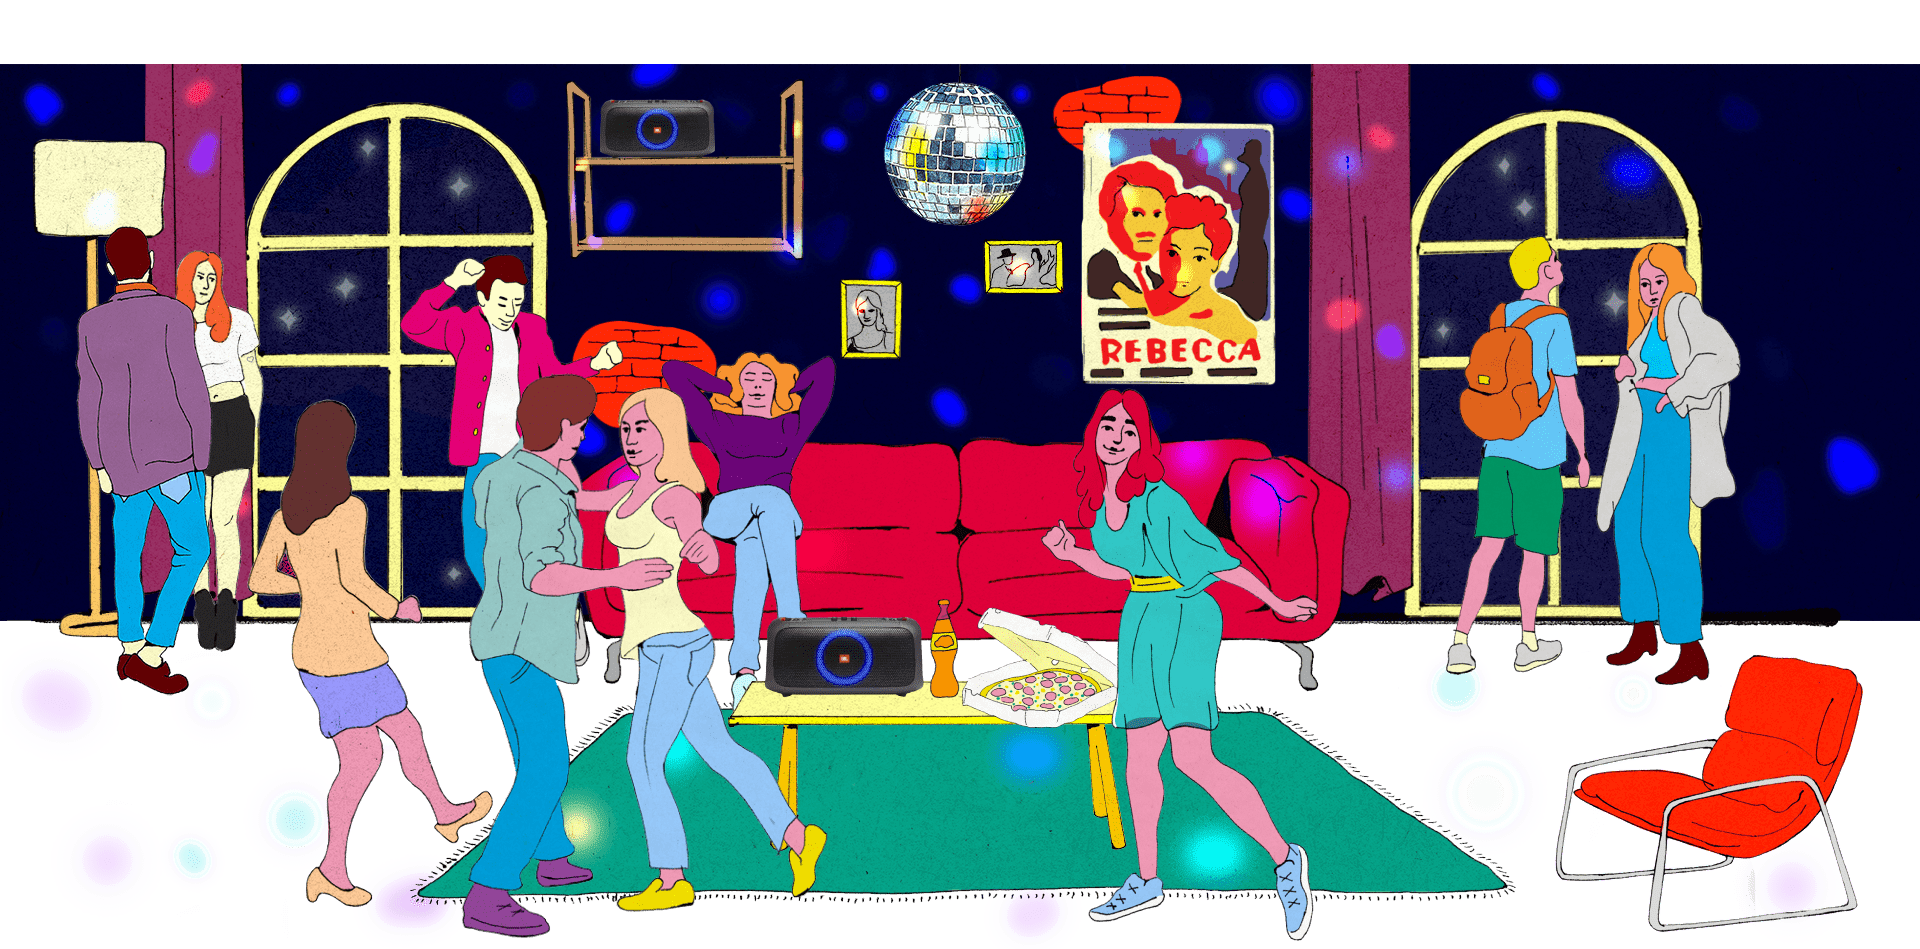
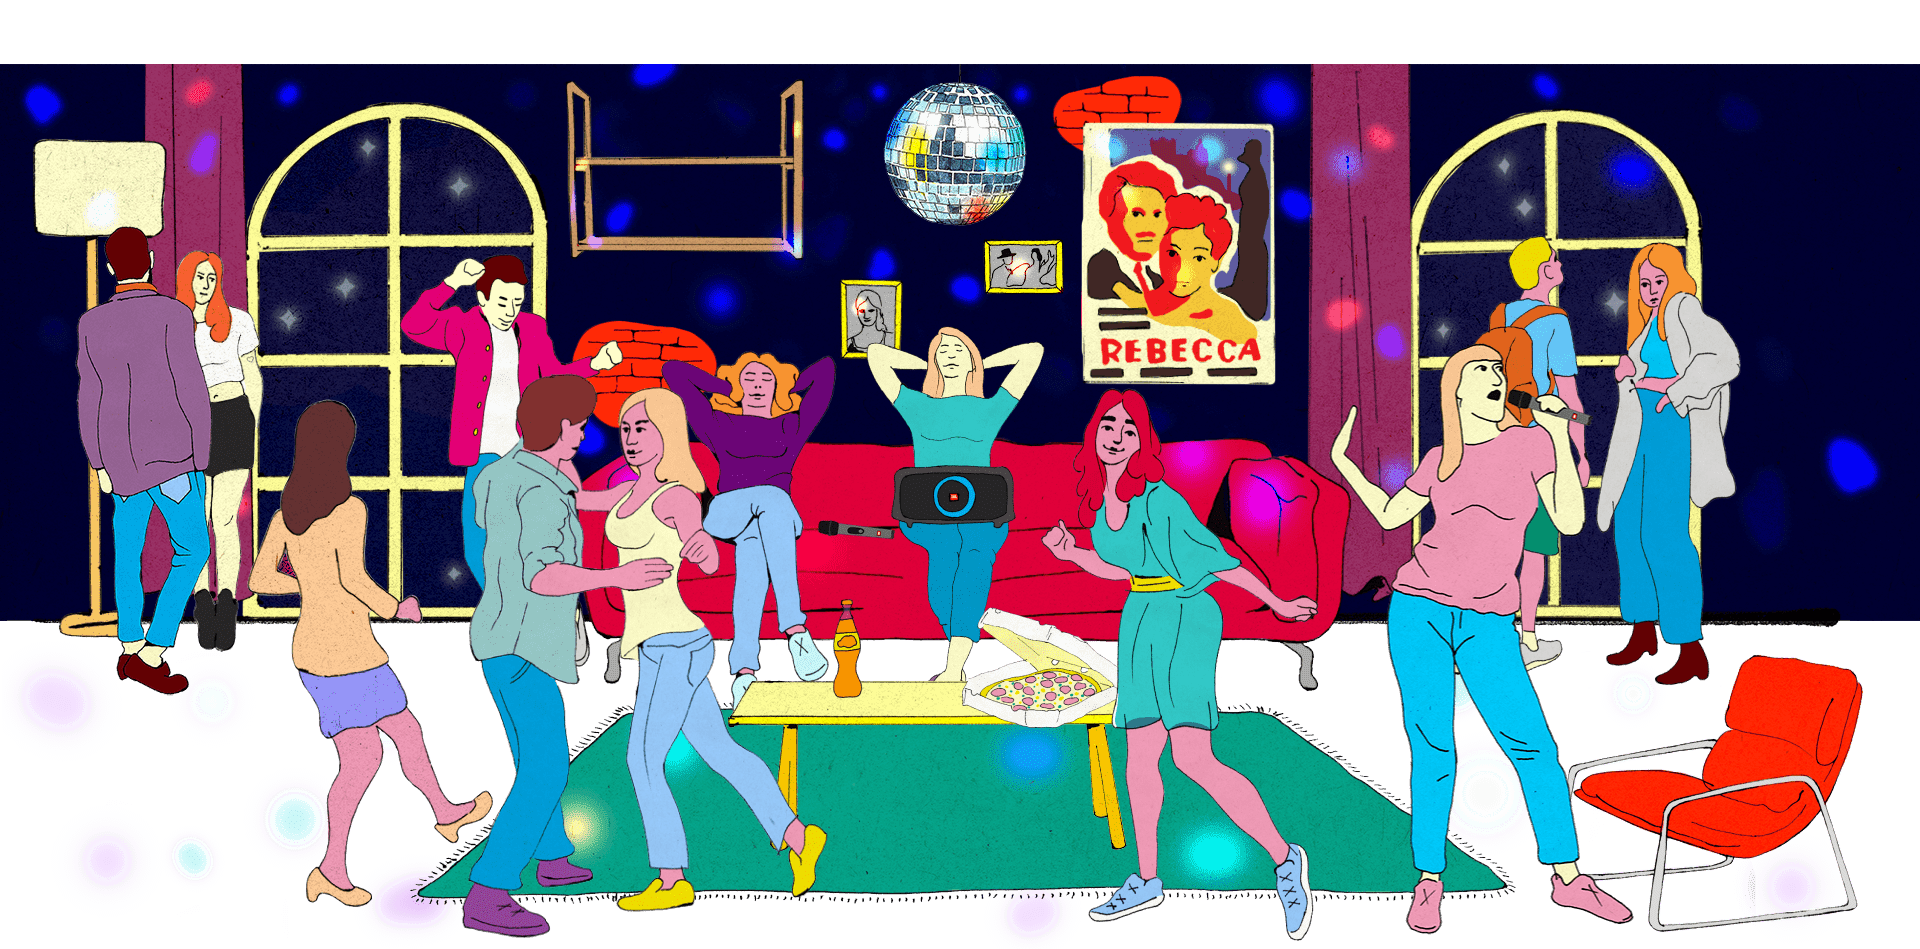
Change level 7

diff --git a/src/components/Game/levelsData.js b/src/components/Game/levelsData.js
@@ -130,18 +130,20 @@ const levels = [
         nocorect: 57,
         animatePlus: [
             { id: 28, style: { left: '39.2em', top: '18.4em', width: '22.9em', height: '42.1em' } },//Парень в розовой рубашке
-            { id: 31, style: { left: '59.2em', top: '3.5em', width: '11.8em', height: '6em' } }, //Колонка
+            // { id: 31, style: { left: '59.2em', top: '3.5em', width: '11.8em', height: '6em' } }, //Колонка
             { id: 29, style: { left: '143.2em', top: '16.8em', width: '14.6em', height: '43.8em' } },//Парень с рюкзаком
-            { id: 31, style: { left: '75.9em', top: '54.7em', width: '15.8em', height: '8.1em' } }, //Колонка
+            // { id: 31, style: { left: '75.9em', top: '54.7em', width: '15.8em', height: '8.1em' } }, //Колонка
             { id: 32, style: { left: '23.7em', top: '32.7em', width: '26.4em', height: '52.1em' } }, //Девушка спиной
             { id: 37, style: { left: '45.1em', top: '30em', width: '37.6em', height: '57.4em' } },//Танцующая пара
             { id: 34, style: { left: '103em', top: '31.9em', width: '27.9em', height: '55.5em' } }, //Девушка в зеленом платье
+            { id: 35, style: { left: '131.6em', top: '27.6em', width: '31em', height: '60em' } }, //Девушка с микрофоном в розовой
         ],
         animateMinus: [
             { id: 29, style: { left: '143.2em', top: '16.8em', width: '14.6em', height: '43.8em' } },//Парень с рюкзаком
-            { id: 31, style: { left: '59.2em', top: '3.5em', width: '11.8em', height: '6em' } }, //Колонка
-            { id: 31, style: { left: '90.6em', top: '55.9em', width: '15.8em', height: '8.1em' } }, //Колонка
+            // { id: 31, style: { left: '59.2em', top: '3.5em', width: '11.8em', height: '6em' } }, //Колонка
+            // { id: 31, style: { left: '90.6em', top: '55.9em', width: '15.8em', height: '8.1em' } }, //Колонка
             { id: 58, style: { left: '25.3em', top: '31.2em', width: '30.9em', height: '49.4em' } }, //Пара медленный танец
+            { id: 35, style: { left: '131.6em', top: '27.6em', width: '31em', height: '60em' } }, //Девушка с микрофоном в розовой
         ]
     },
     {

diff --git a/src/components/Overley/overleyData.js b/src/components/Overley/overleyData.js
@@ -146,7 +146,7 @@ const overleyData = [
     [
         {
             idBg: 10,
-            content: '<span>Песня о любви вызвала бурю эмоций. Окончательно распалить чувства гостей можно хитом, который цепляет даже крепких парней. Уверены: такую песню вы будете горланить все вместе — а поможет вам в этом дополнительный микрофон, который можно докупить к JBL PartyBox On-The-Go.</span>',
+            content: '<span>Песня о любви вызвала бурю эмоций. Окончательно распалить чувства гостей можно хитом, который цепляет даже крепких парней. Уверены: такую песню вы будете горланить все вместе. Кстати, знаете ли вы, что у JBL PartyBox On-The-Go есть переносной ремень, а на нем — открывалка для бутылок?</span>',
             typeBtn: 'next',
             style: { height: '48.7em', width: '91.8em' }
         },

diff --git a/src/context.js b/src/context.js
@@ -26,7 +26,7 @@ export default function ContextProvider({ children }) {
     const [em, setEm] = useState(getEm());
     const [globalHeight, setGlobalHeight] = useState(getHeight());
     const [screen, setScreen] = useState('start');//start / game / final
-    const [level, setLevel] = useState(0); //6 //0-9
+    const [level, setLevel] = useState(0); //7 //0-9
     const [yesno, setYesNo] = useState(null);
     const [isMobale, setIsMobale] = useState(getIsMobile());
     const [imgsLoaded, setImgsLoaded] = useState(false);
